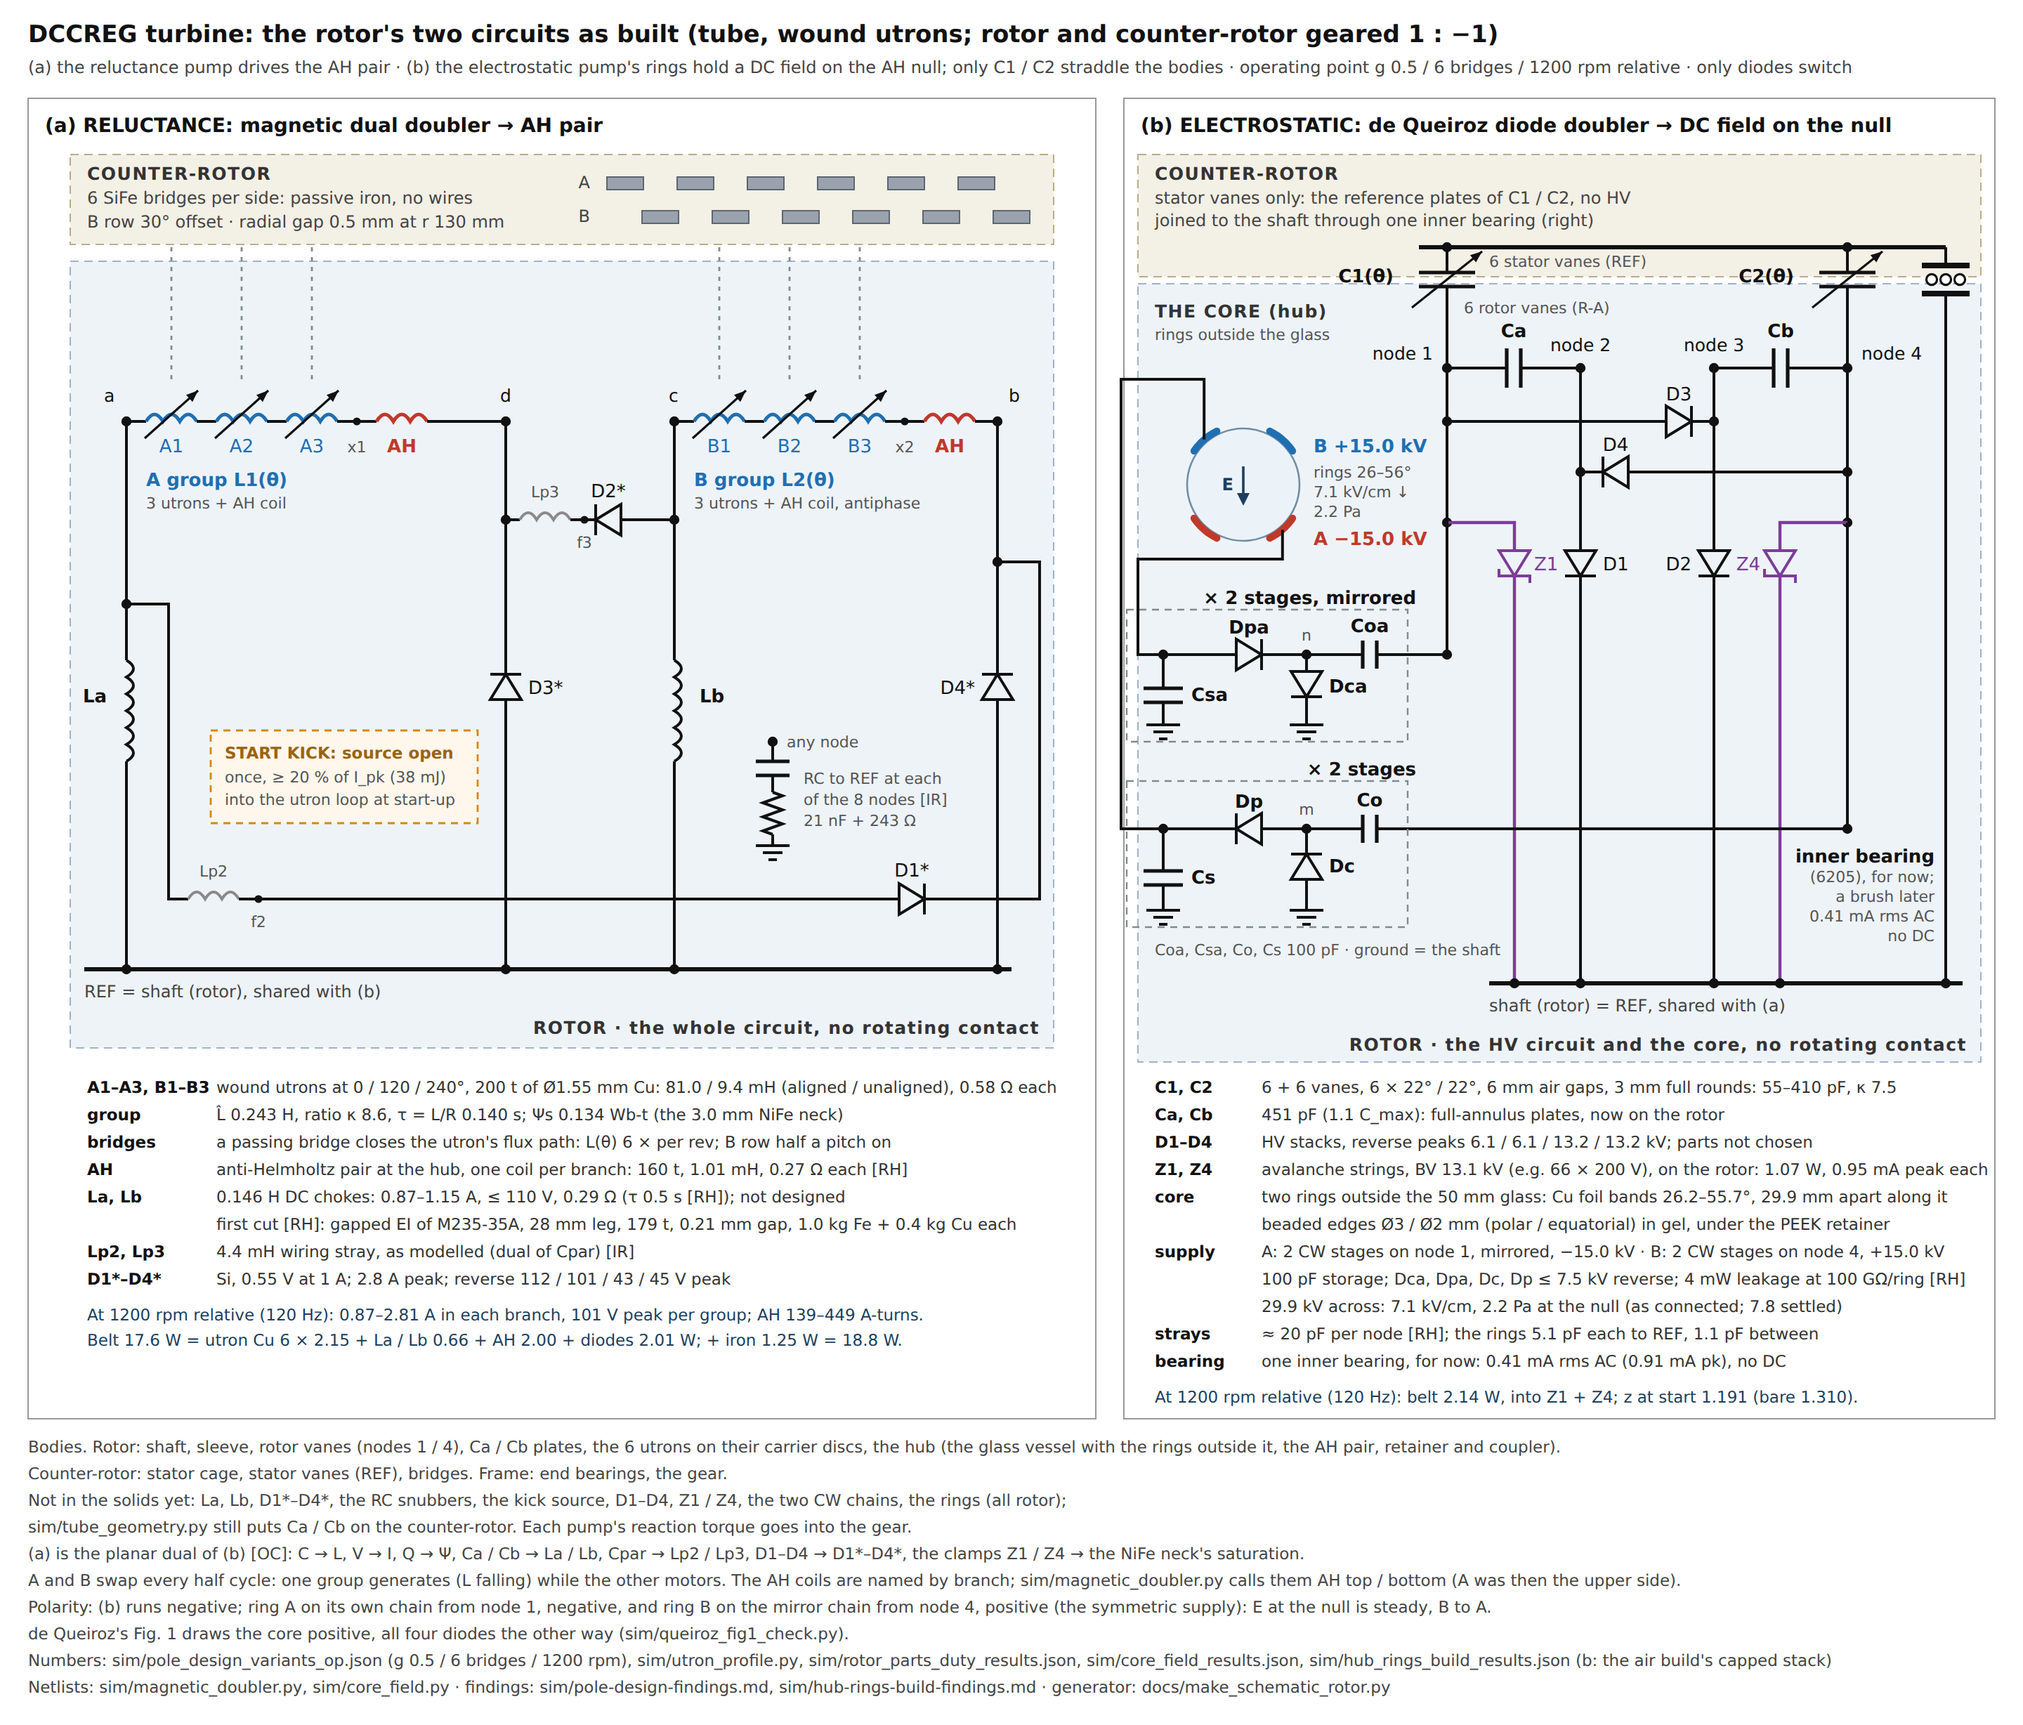
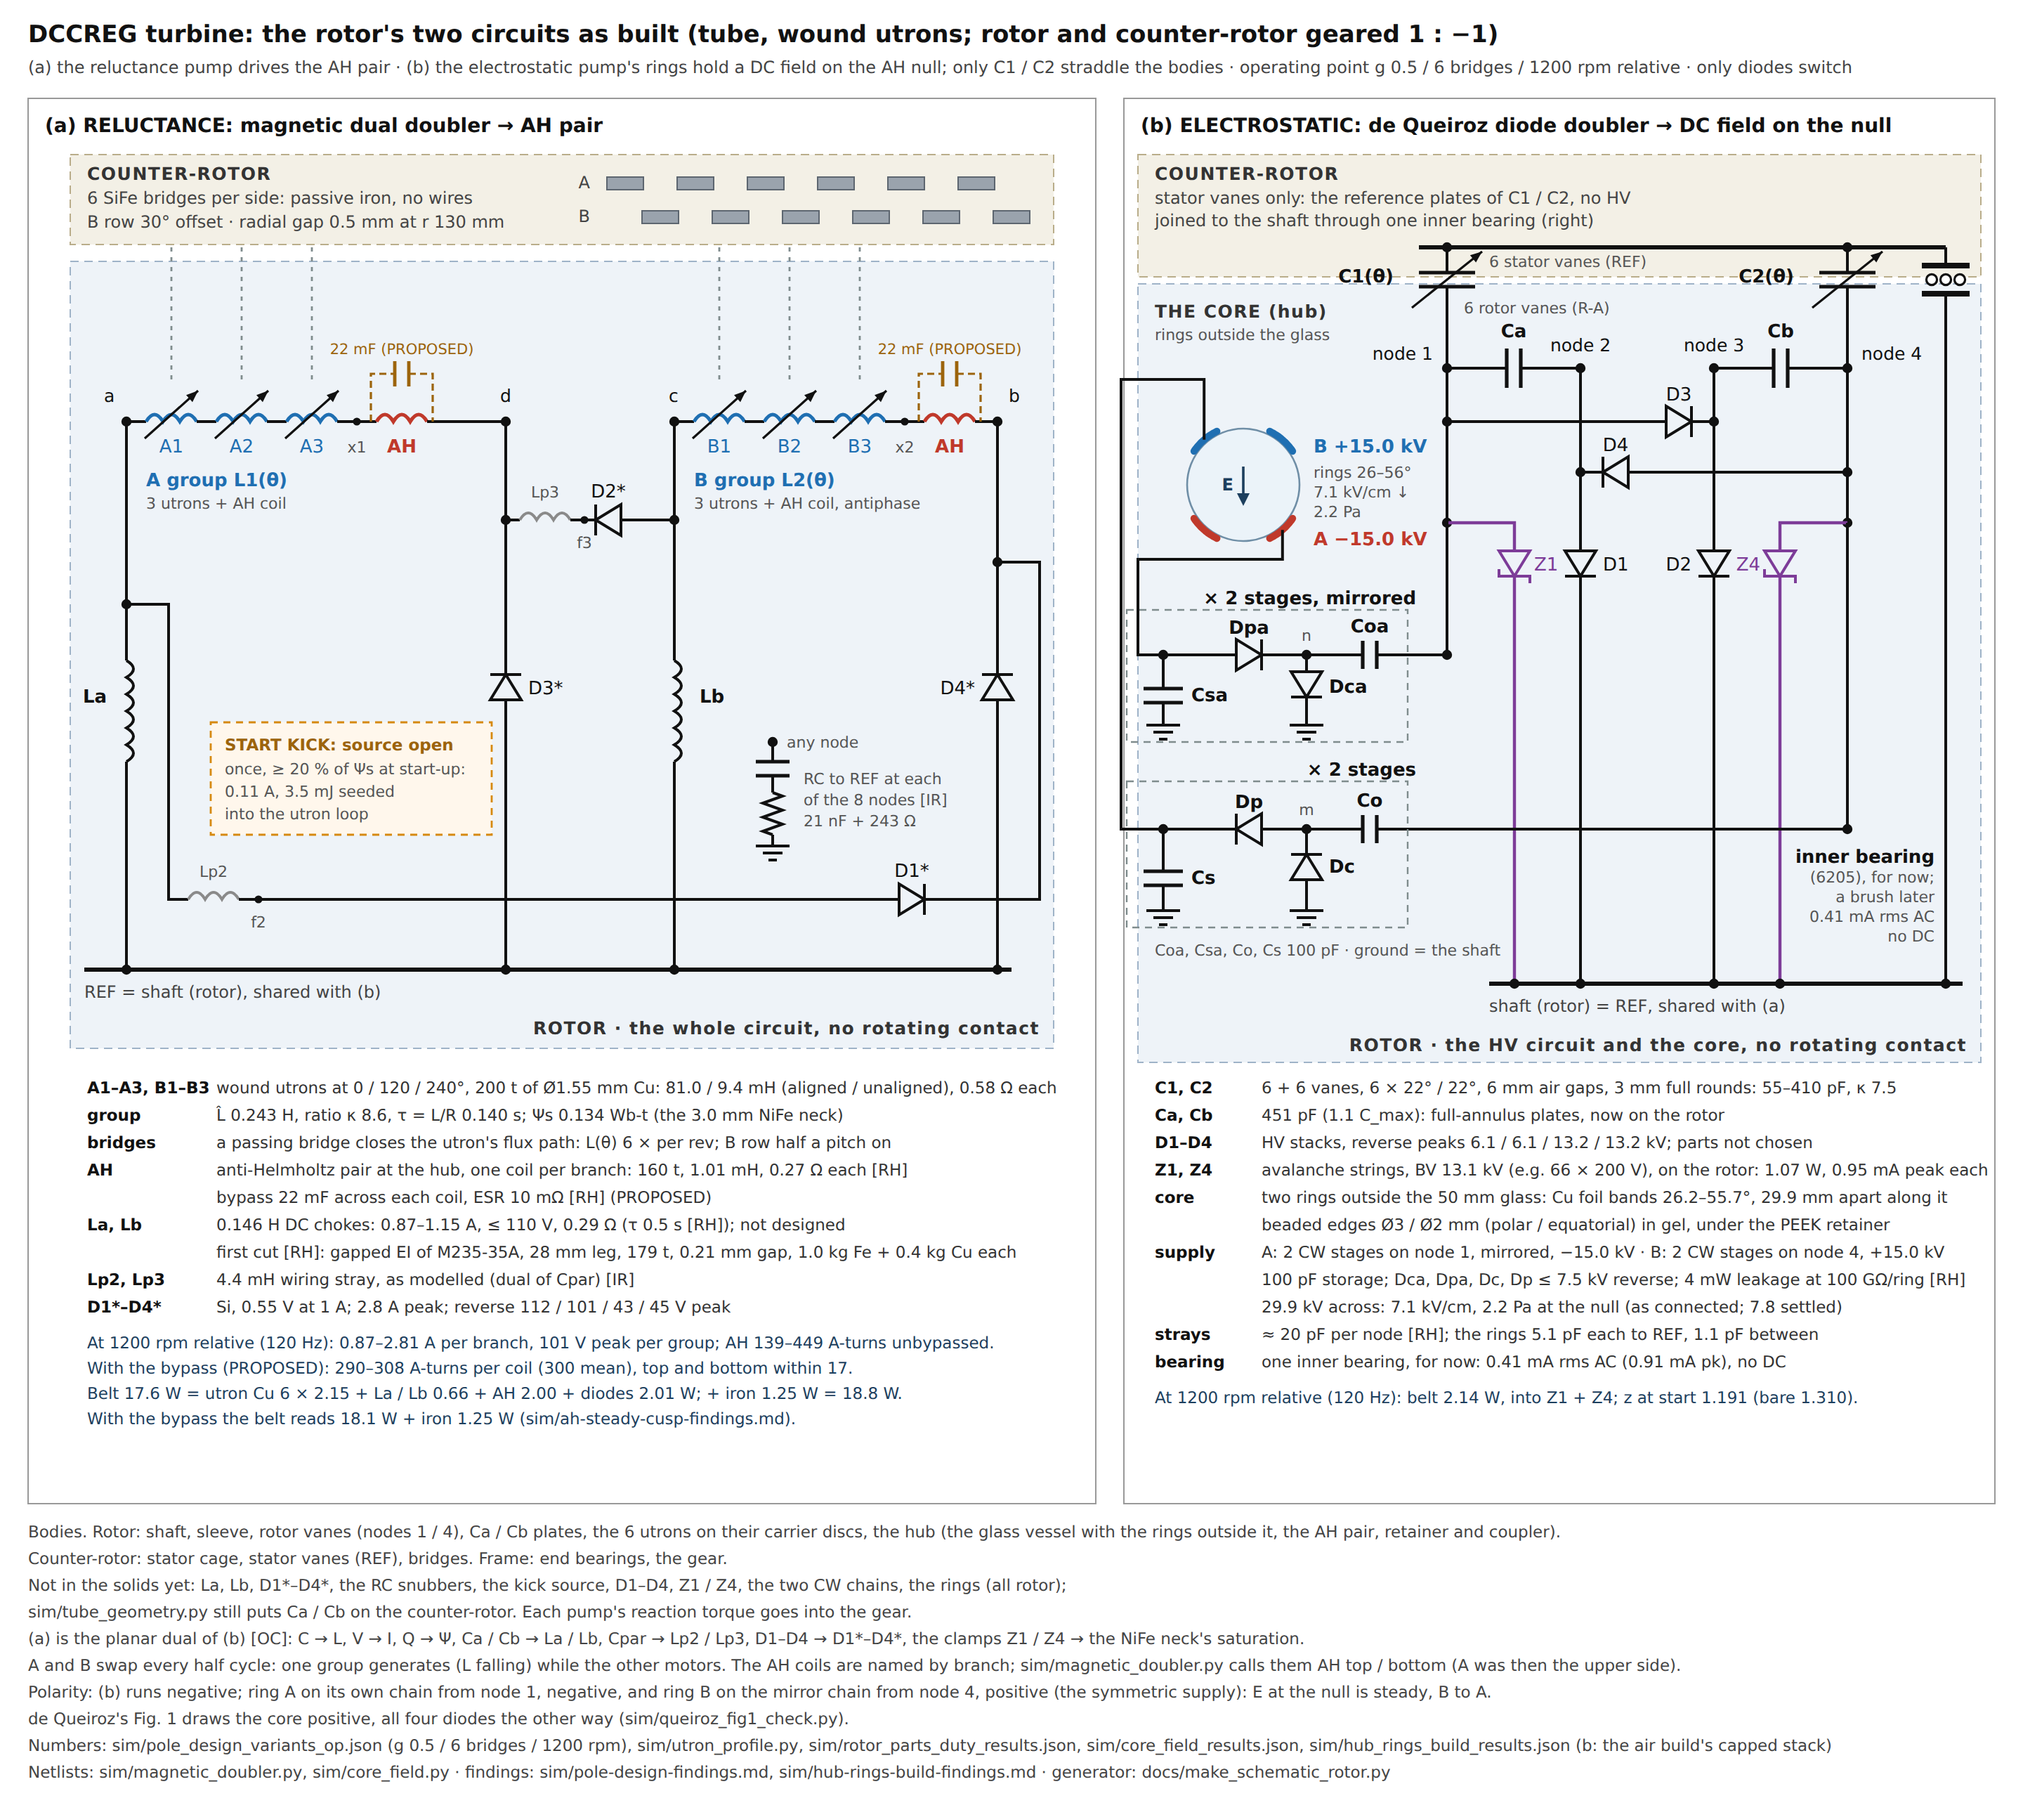
docs(schematic): the AH bypass, both A-turn ranges and the kick
Panel (a) draws the 22 mF bypass across each AH coil, dashed and marked
PROPOSED; quotes the branch's 139–449 A-turns and the coils' 290–308
with the bypass; the belt with the bypass (18.1 W); the kick as 20 % of
Psi_s, 0.11 A and 3.5 mJ seeded. The docstring names the symmetric
supply of record (it had described the Dk supply).

Claude-Session: https://claude.ai/code/session_019kWq1ZtzZgffamNAmjzqBU

diff --git a/docs/make_schematic_rotor.py b/docs/make_schematic_rotor.py
@@ -6,12 +6,15 @@
 (b) ELECTROSTATIC: the de Queiroz diode doubler with its HV side on the rotor (sim/core_field.py netlist; the air
     build's capped stack) -- C1 / C2 between the rotor vanes (nodes 1 / 4) and the counter-rotor's stator vanes, which
     are the reference; Ca / Cb, D1-D4 and the clamps Z1 / Z4 on the rotor; two rings outside the hub's glass vessel
-    (the designer's choice; presets/hub-locked.json), ring A peak-charged from node 1 through Dk and ring B on the
-    record's Cockcroft-Walton stages on node 4 (two), so the AH null sees a steady field (sim/hub-rings-build-findings.md);
+    (the designer's choice; presets/hub-locked.json), each on its own two-stage Cockcroft-Walton chain from the shaft,
+    ring A on node 1 and ring B on node 4 (the symmetric supply of record), so the AH null sees a steady field
+    (sim/hub-rings-build-findings.md; the drawing also handles the earlier Dk supply);
     the stator vanes joined to the shaft through one inner bearing for now (a brush later).
+(a) also draws the 22 mF bypass across each AH coil (PROPOSED; sim/ah-steady-cusp-findings.md), dashed.
 Values: sim/pole_design_variants_op.json (the pick), sim/utron_profile.py, sim/rotor_parts_duty_results.json (La / Lb,
 D1*-D4* at the pick), sim/core_field_results.json (the electrostatic pump), sim/hub_rings_build_results.json (the rings
-as built and their supply in full: the clamps, the link), sim/hub_drift_results.json (the settled field).
+as built and their supply in full: the clamps, the link), sim/hub_drift_results.json (the settled field),
+sim/ah_steady_cusp_results.json (the bypass).
 Usage: python3 docs/make_schematic_rotor.py   (the PNG needs playwright + chromium)
 """
 import json
@@ -142,7 +145,9 @@ def numbers():
     dr = json.load(open(os.path.join(ROOT, "sim", "hub_drift_results.json")))
     ring = dict(hb["record"], E_dc_kV_cm=hb["record"]["E_null_kV_cm"], p_dc_Pa=hb["record"]["p_null_Pa"],
                 E_settled_kV_cm=dr["drift"][0]["E_kV_cm"][-1])                            # PEEK, gel, 25 C at 6 h
-    return dict(op=op, b=b, sp=sp, Lg=Lg, ah=ah, F=F, csn=csn, rsn=rsn, la=LA_RATIO * Lg, lp=MDm.R_PAR * Lg, duty=duty,
+    cusp = [r for r in json.load(open(os.path.join(ROOT, "sim", "ah_steady_cusp_results.json")))["rows"]
+            if r["C_byp_mF"] == 22.0][0]                                           # the bypass (PROPOSED)
+    return dict(op=op, b=b, sp=sp, Lg=Lg, ah=ah, F=F, csn=csn, rsn=rsn, la=LA_RATIO * Lg, lp=MDm.R_PAR * Lg, duty=duty, cusp=cusp,
                 cf=cf, cfr=cfr, hb=hb, dc=hb["record_supply"], dc_free=hb["record_supply_free"], ring=ring)
 
 
@@ -182,6 +187,11 @@ def panel_a(ox, N):
         xe = coil_h(x, yt, 3, "ah")
         tx((x + xe) / 2, yt + 22, "AH", "ta", "middle", 'font-weight="bold"')
         ln(xe, yt, x1n, yt)
+        # the 22 mF bypass across the coil (PROPOSED): dashed
+        xm, yb = 0.5 * (x + xe), yt - 34
+        pl([(x - 4, yt), (x - 4, yb), (xm - 5, yb)], "prop"); pl([(xm + 5, yb), (xe + 4, yb), (xe + 4, yt)], "prop")
+        ln(xm - 5, yb - 9, xm - 5, yb + 9, "propc"); ln(xm + 5, yb - 9, xm + 5, yb + 9, "propc")
+        tx(xm, yb - 14, f"{N['cusp']['C_byp_mF']:.0f} mF (PROPOSED)", "tp", "middle")
         tx(x0 + 14, yt + 46, f"{grp} group  L{1 if grp == 'A' else 2}(θ)", "tu", "start", 'font-weight="bold"')
         tx(x0 + 14, yt + 62, "3 utrons + AH coil" + ("" if grp == "A" else ", antiphase"), "ms")
     # La: ref -> a ; Lb: c -> ref
@@ -212,10 +222,11 @@ def panel_a(ox, N):
         dot(x, REF)
     tx(xa - 30, REF + 20, "REF = shaft (rotor), shared with (b)", "m")
     # start kick: not designed (no connection drawn)
-    box(xa + 60, 520, 190, 66, "kick")
-    tx(xa + 70, 540, "START KICK: source open", "tk2")
-    tx(xa + 70, 557, f"once, ≥ {100 * b['kick_frac']:.0f} % of I_pk ({b['kick_mJ']:.0f} mJ)", "ms")
-    tx(xa + 70, 573, "into the utron loop at start-up", "ms")
+    box(xa + 60, 514, 200, 80, "kick")
+    tx(xa + 70, 534, "START KICK: source open", "tk2")
+    tx(xa + 70, 551, f"once, ≥ {100 * b['kick_frac']:.0f} % of Ψs at start-up:", "ms")
+    tx(xa + 70, 567, f"{b['kick_I_A']:.2f} A, {b['kick_mJ']:.1f} mJ seeded", "ms")
+    tx(xa + 70, 583, "into the utron loop", "ms")
     # the node snubber, drawn once
     xs, ys = xc + 70, 528
     dot(xs, ys); tx(xs + 10, ys + 4, "any node", "ms")
@@ -237,6 +248,7 @@ def panel_a_table(ox, y, N):
         ("bridges", f"a passing bridge closes the utron's flux path: L(θ) {sp['n_br']} × per rev; B row half a pitch on"),
         ("AH", f"anti-Helmholtz pair at the hub, one coil per branch: {ah['N']} t, {ah['L'] * 1e3:.2f} mH, "
                f"{ah['R']:.2f} Ω each [RH]"),
+        ("", f"bypass {N['cusp']['C_byp_mF']:.0f} mF across each coil, ESR {1e3 * 0.01:.0f} mΩ [RH] (PROPOSED)"),
         ("La, Lb", f"{N['la']:.3f} H DC chokes: {la['I_min_A']:.2f}–{la['I_max_A']:.2f} A, ≤ {la['V_pk_V']:.0f} V, "
                    f"{N['la'] / TAU_FIXED:.2f} Ω (τ {TAU_FIXED:g} s [RH]); not designed"),
         ("", f"first cut [RH]: gapped EI of M235-35A, {ch['a_mm']:.0f} mm leg, {ch['turns']} t, {ch['gap_mm']:.2f} mm gap, "
@@ -247,11 +259,17 @@ def panel_a_table(ox, y, N):
     ]
     y = table(ox + 42, y, rows)
     I_min = b["AT_min"] / ah["N"]
-    tx(ox + 42, y + 6, f"At {b['rpm']:.0f} rpm relative ({N['F']:.0f} Hz): {I_min:.2f}–{b['I_pk']:.2f} A in each branch, "
-                       f"{b['V_pk']:.0f} V peak per group; AH {b['AT_min']:.0f}–{b['AT_pk']:.0f} A-turns.", "op")
+    cu = N["cusp"]
+    tx(ox + 42, y + 6, f"At {b['rpm']:.0f} rpm relative ({N['F']:.0f} Hz): {I_min:.2f}–{b['I_pk']:.2f} A per branch, "
+                       f"{b['V_pk']:.0f} V peak per group; AH {b['AT_min']:.0f}–{b['AT_pk']:.0f} A-turns unbypassed.", "op")
+    y += 18
+    tx(ox + 42, y + 6, f"With the bypass (PROPOSED): {cu['top']['AT_min']:.0f}–{cu['top']['AT_max']:.0f} A-turns per coil "
+                       f"({cu['top']['AT_mean']:.0f} mean), top and bottom within {cu['dAT_max']:.0f}.", "op")
     tx(ox + 42, y + 24, f"Belt {b['P_belt_el_W']:.1f} W = utron Cu 6 × {b['P_utron_coil_W']:.2f} + La / Lb {b['P_fixed_W']:.2f} "
                         f"+ AH {b['P_AH_W']:.2f} + diodes {b['P_diode_W']:.2f} W; + iron {2 * b['P_fe_side_W']:.2f} W "
                         f"= {b['P_total_W']:.1f} W.", "op")
+    tx(ox + 42, y + 42, f"With the bypass the belt reads {cu['P_belt_W']:.1f} W + iron {2 * b['P_fe_side_W']:.2f} W "
+                        "(sim/ah-steady-cusp-findings.md).", "op")
 
 
 # ------------------------------------------------------------------------------------------------ (b) electrostatic
@@ -436,7 +454,7 @@ def panel_b_table(ox, y, N):
 # ------------------------------------------------------------------------------------------------ sheet
 def main():
     N = numbers()
-    W, H = 1440, 1228
+    W, H = 1440, 1288
     o.append(f'<svg xmlns="http://www.w3.org/2000/svg" viewBox="0 0 {W} {H}" width="{W}" height="{H}" '
              'font-family="DejaVu Sans, Arial, sans-serif" font-size="13">')
     o.append("<title>Rotor circuits</title>")
@@ -450,6 +468,8 @@ def main():
     .ring{stroke:#111;stroke-width:4} .ball{fill:#fff;stroke:#111;stroke-width:1.6} .dot{fill:#111}
     .zone_cr{fill:#f3f0e6;stroke:#b9ad8a;stroke-width:1;stroke-dasharray:6 4} .zone_r{fill:#eef3f8;stroke:#9fb3c8;stroke-width:1;stroke-dasharray:6 4}
     .kick{fill:#fff7ec;stroke:#d68910;stroke-width:1.4;stroke-dasharray:5 4} .frame{fill:none;stroke:#999;stroke-width:1}
+    .prop{stroke:#9c640c;stroke-width:1.6;fill:none;stroke-dasharray:5 3} .propc{stroke:#9c640c;stroke-width:2.4}
+    .tp{fill:#9c640c;font-size:10.5px}
     .t{fill:#111} .tu{fill:#1f6fb2} .ta{fill:#c0392b} .tl{fill:#7d3c98} .nd{fill:#111;font-size:12.5px}
     .m{fill:#444;font-size:12px} .ms{fill:#555;font-size:11px} .zh{fill:#333;font-size:12.5px;font-weight:bold;letter-spacing:0.06em}
     .tk{fill:#111;font-size:11.5px;font-weight:bold} .tk2{fill:#9c640c;font-size:11.5px;font-weight:bold} .tv{fill:#333;font-size:11.5px}
@@ -464,7 +484,7 @@ def main():
                f"straddle the bodies · operating point {PICK} relative · only diodes switch", "m")
     for ox, w, title in ((20, 760, "(a) RELUCTANCE: magnetic dual doubler → AH pair"),
                          (800, 620, "(b) ELECTROSTATIC: de Queiroz diode doubler → DC field on the null")):
-        box(ox, 70, w, 940, "frame")
+        box(ox, 70, w, 1000, "frame")
         tx(ox + 12, 94, title, "h2")
     panel_a(20, N)
     panel_b(780, N)
@@ -493,7 +513,7 @@ def main():
         "Netlists: sim/magnetic_doubler.py, sim/core_field.py · findings: sim/pole-design-findings.md, sim/hub-rings-build-findings.md "
         "· generator: docs/make_schematic_rotor.py",
     ]
-    y = 1034
+    y = 1094
     for s in notes:
         tx(20, y, s, "n"); y += 19
     o.append("</svg>")
